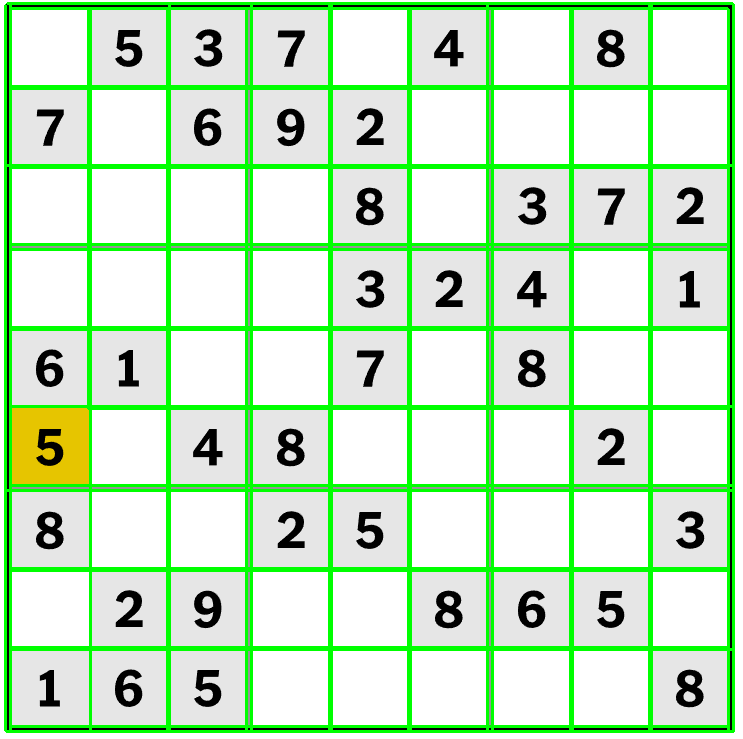
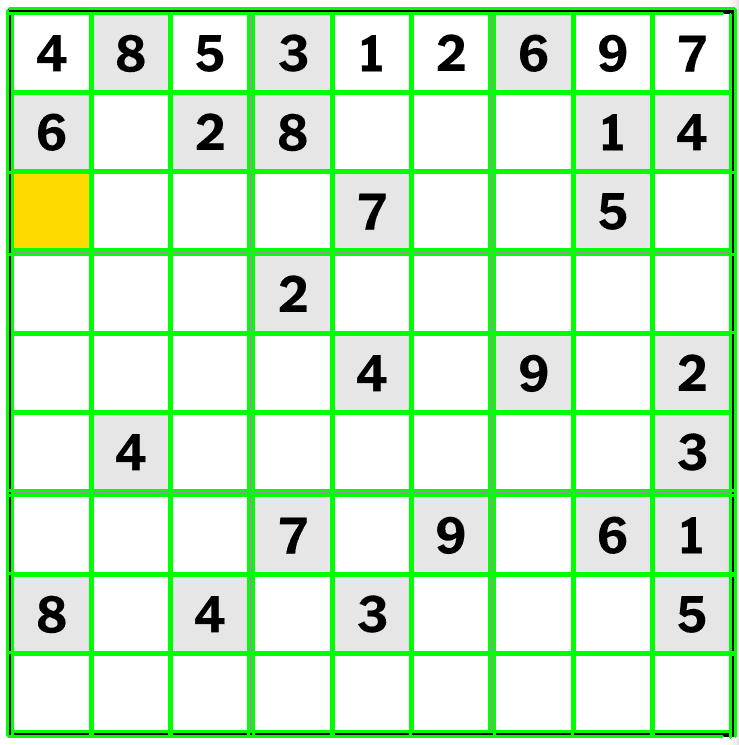
Le bot remplit le sudoku lui-meme sur le site

diff --git a/SudokuMaster/SudokuMaster.py b/SudokuMaster/SudokuMaster.py
@@ -1,12 +1,14 @@
-from concurrent.futures.thread import _global_shutdown_lock
 import cv2 as cv
 import pyautogui
 import tkinter as tk
 from tkinter import *
 from tkinter import ttk
 from pynput import keyboard
+from pynput.keyboard import Key,Controller
 from PIL import ImageTk,Image
 import numpy
+import time
+from threading import Thread
 
 grid_sudoku = [[0,0,0,0,0,0,0,0,0],
                [0,0,0,0,0,0,0,0,0],
@@ -59,6 +61,7 @@ def start_screenshot():
     if start_haut and start_bas:
         if point_hg_x<point_bd_x and point_hg_y<point_bd_y:
             number_identifier()
+            solve()
             
             
         
@@ -72,42 +75,19 @@ def save_screenshot():
    
 
 #Attention
-#Vol complet de la fonction
+#Inspiration:
 #https://www.geeksforgeeks.org/line-detection-python-opencv-houghline-method/
 def line_identifier():
-    print("Line_identifier")
-    image = cv.imread('test.png')
- 
-    # Convert image to grayscale
-    gray = cv.cvtColor(image,cv.COLOR_BGR2GRAY)
- 
-    # Use canny edge detection
-    edges = cv.Canny(gray,50,150,apertureSize=3)
- 
-    # Apply HoughLinesP method to
-    # to directly obtain line end points
     global lines_list
-    lines = cv.HoughLinesP(
-            edges, # Input edge image
-            1, # Distance resolution in pixels
-            numpy.pi/180, # Angle resolution in radians
-            threshold=100, # Min number of votes for valid line
-            minLineLength=5, # Min allowed length of line
-            maxLineGap=10 # Max allowed gap between line for joining them
-            )
- 
-    # Iterate over points
-    for points in lines:
-      # Extracted points nested in the list
+    image = cv.imread('test.png')
+    bordure = cv.Canny(image,100,200,apertureSize=3)
+    lignes = cv.HoughLinesP(bordure, 1, numpy.pi/180, threshold=100, minLineLength=50, maxLineGap=100)
+
+    for points in lignes:
         x1,y1,x2,y2=points[0]
-    # Draw the lines joing the points
-    # On the original image
-        cv.line(image,(x1,y1),(x2,y2),(0,255,0),2)
-    # Maintain a simples lookup list for points
+        #Rajout des point x,y de haut-gauche parce que les chiffres sont detecter a partir de l'ecran
         lines_list.append([(x1+point_hg_x,y1+point_hg_y),(x2+point_hg_x,y2+point_hg_y)])
-     
-    # Save the result image
-    cv.imwrite('detectedLines.png',image)
+
 
 def number_identifier():
     location_1 = pyautogui.locateAllOnScreen('1.png')
@@ -125,7 +105,6 @@ def number_identifier():
     create_grid(location)
 
 def find_point_info():
-    print("Debut find_point")
     point_x_min = 10000
     point_y_min = 10000
     point_x_max = 0
@@ -140,7 +119,6 @@ def find_point_info():
         if y2<point_y_min : point_y_min = y2
         if x2>point_x_max : point_x_max = x2
         if y2>point_y_max : point_y_max = y2
-    print("find point passe")
     dimension_cell(point_x_min,point_x_max,point_y_min,point_y_max)
 
 def dimension_cell(point_x_min,point_x_max,point_y_min,point_y_max):
@@ -159,14 +137,13 @@ def dimension_cell(point_x_min,point_x_max,point_y_min,point_y_max):
 
 def create_grid(location):
     global grid_sudoku
-    print("Debut create_grid")
     i=0
     for loc in location:
         i+=1
         inserer_nombre_grid(loc,i)
         
     
-    print(grid_sudoku)
+    print(numpy.matrix(grid_sudoku))
 
 def inserer_nombre_grid(location,i):
     global sudoku
@@ -176,6 +153,60 @@ def inserer_nombre_grid(location,i):
         column = int(column)
         row = int(row)
         grid_sudoku[row][column] = i
+
+#Copier entierement https://www.youtube.com/watch?v=PZJ5mjQyxR8
+def possible(row, column, number):
+    global grid_sudoku
+    #Is the number appearing in the given row?
+    for i in range(0,9):
+        if grid_sudoku[row][i] == number:
+            return False
+
+    #Is the number appearing in the given column?
+    for i in range(0,9):
+        if grid_sudoku[i][column] == number:
+            return False
+    
+    #Is the number appearing in the given square?
+    x0 = (column // 3) * 3
+    y0 = (row // 3) * 3
+    for i in range(0,3):
+        for j in range(0,3):
+            if grid_sudoku[y0+i][x0+j] == number:return False
+                
+
+    return True
+
+def solve():
+    global grid_sudoku
+    for row in range(0,9):
+        for column in range(0,9):
+            if grid_sudoku[row][column] == 0:
+                for number in range(1,10):
+                    if possible(row, column, number):
+                        grid_sudoku[row][column] = number
+                        solve()
+                        grid_sudoku[row][column] = 0
+
+                return
+      
+    print(numpy.matrix(grid_sudoku))
+    Thread(target = bot_remplir()).start()
+#Fin copie
+
+def bot_remplir():
+    keyboard = Controller()
+    for i in range(0,9):
+        pyautogui.doubleClick(x=(point_hg_x+((cell_range/2))),y=(point_hg_y+((i*cell_range)+(cell_range/2))))
+        for j in range(0,9):
+            value = grid_sudoku[i][j]
+            keyboard.press(str(value))
+            keyboard.release(str(value))
+            time.sleep(0.2)
+            keyboard.press(Key.right)
+            keyboard.release(Key.right)
+            time.sleep(0.2)
+
 
 
 screen = ttk.Label()
